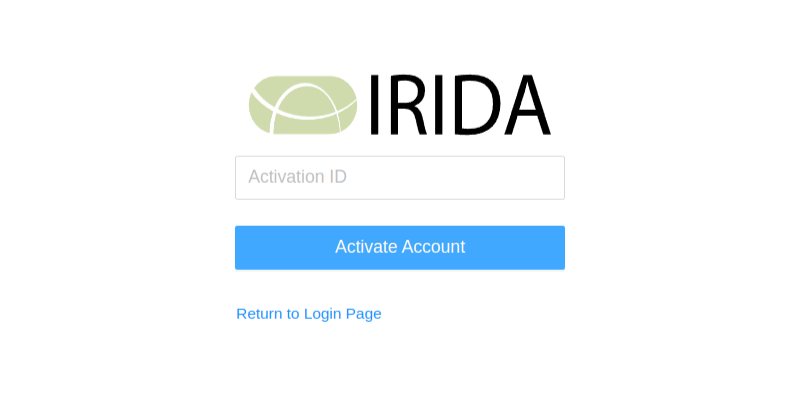
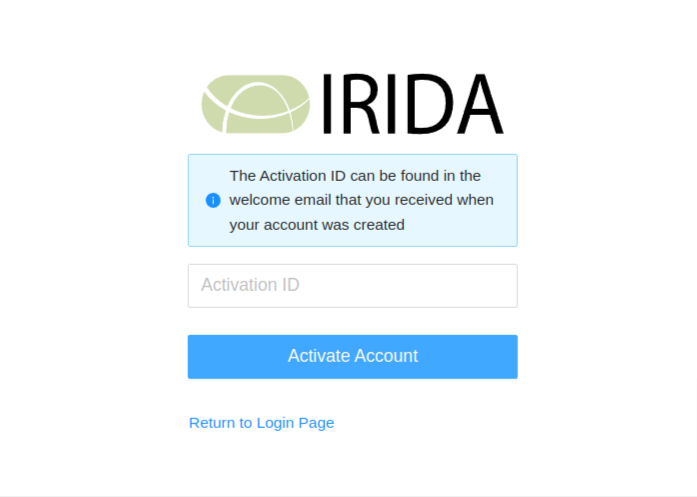
Added alert with explanation of where to get the activation id from. Updated screenshot

Changed region(s): [[0.2712, 0.1446, 0.7532, 0.7807], [0.2712, 0.8386, 0.4821, 0.8675]]

diff --git a/src/main/webapp/resources/js/pages/password/ActivateAccount.jsx b/src/main/webapp/resources/js/pages/password/ActivateAccount.jsx
@@ -48,7 +48,14 @@ export function ActivateAccount({ updateDisplayLoginPage }) {
   };
 
   return (
-    <div>
+    <>
+      <Alert
+        message={i18n("ActivateAccount.alert.description")}
+        className="t-activation-id-description"
+        style={{ marginTop: SPACE_MD }}
+        type="info"
+        showIcon
+      />
       {message !== null && (
         <Alert
           message={message}
@@ -58,6 +65,7 @@ export function ActivateAccount({ updateDisplayLoginPage }) {
           showIcon
         />
       )}
+
       <Form
         name="accountActivationForm"
         form={activateAccountForm}
@@ -106,6 +114,6 @@ export function ActivateAccount({ updateDisplayLoginPage }) {
       >
         {i18n("ActivateAccount.link.returnToLogin")}
       </Button>
-    </div>
+    </>
   );
 }
